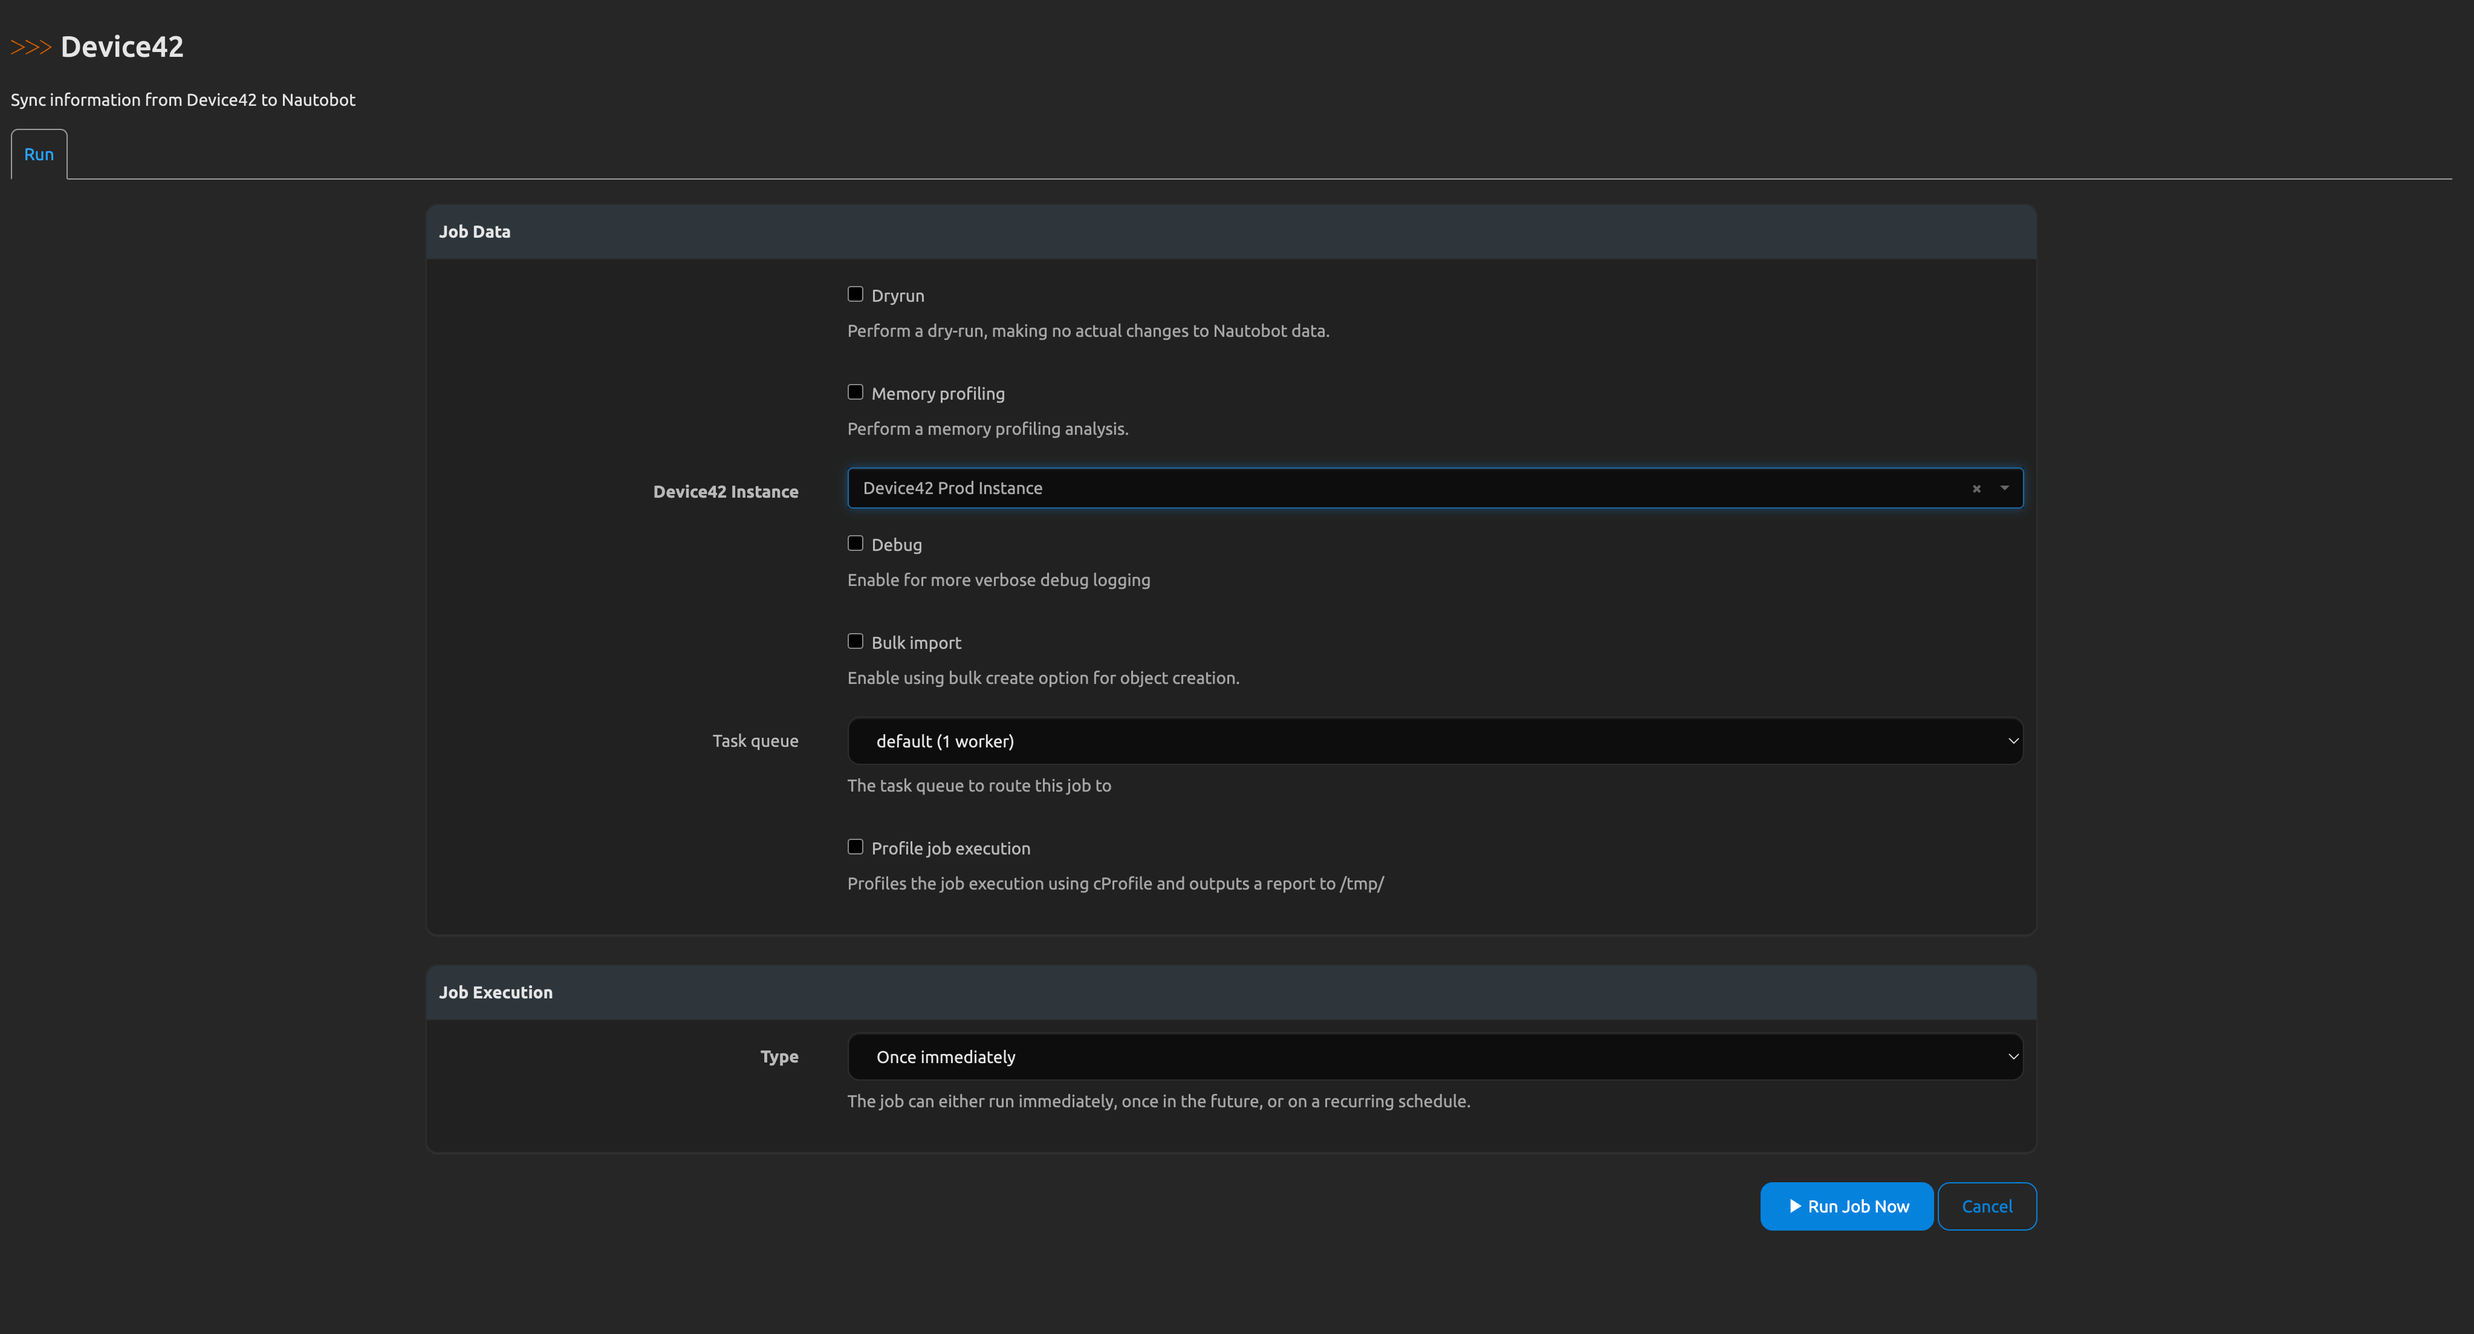
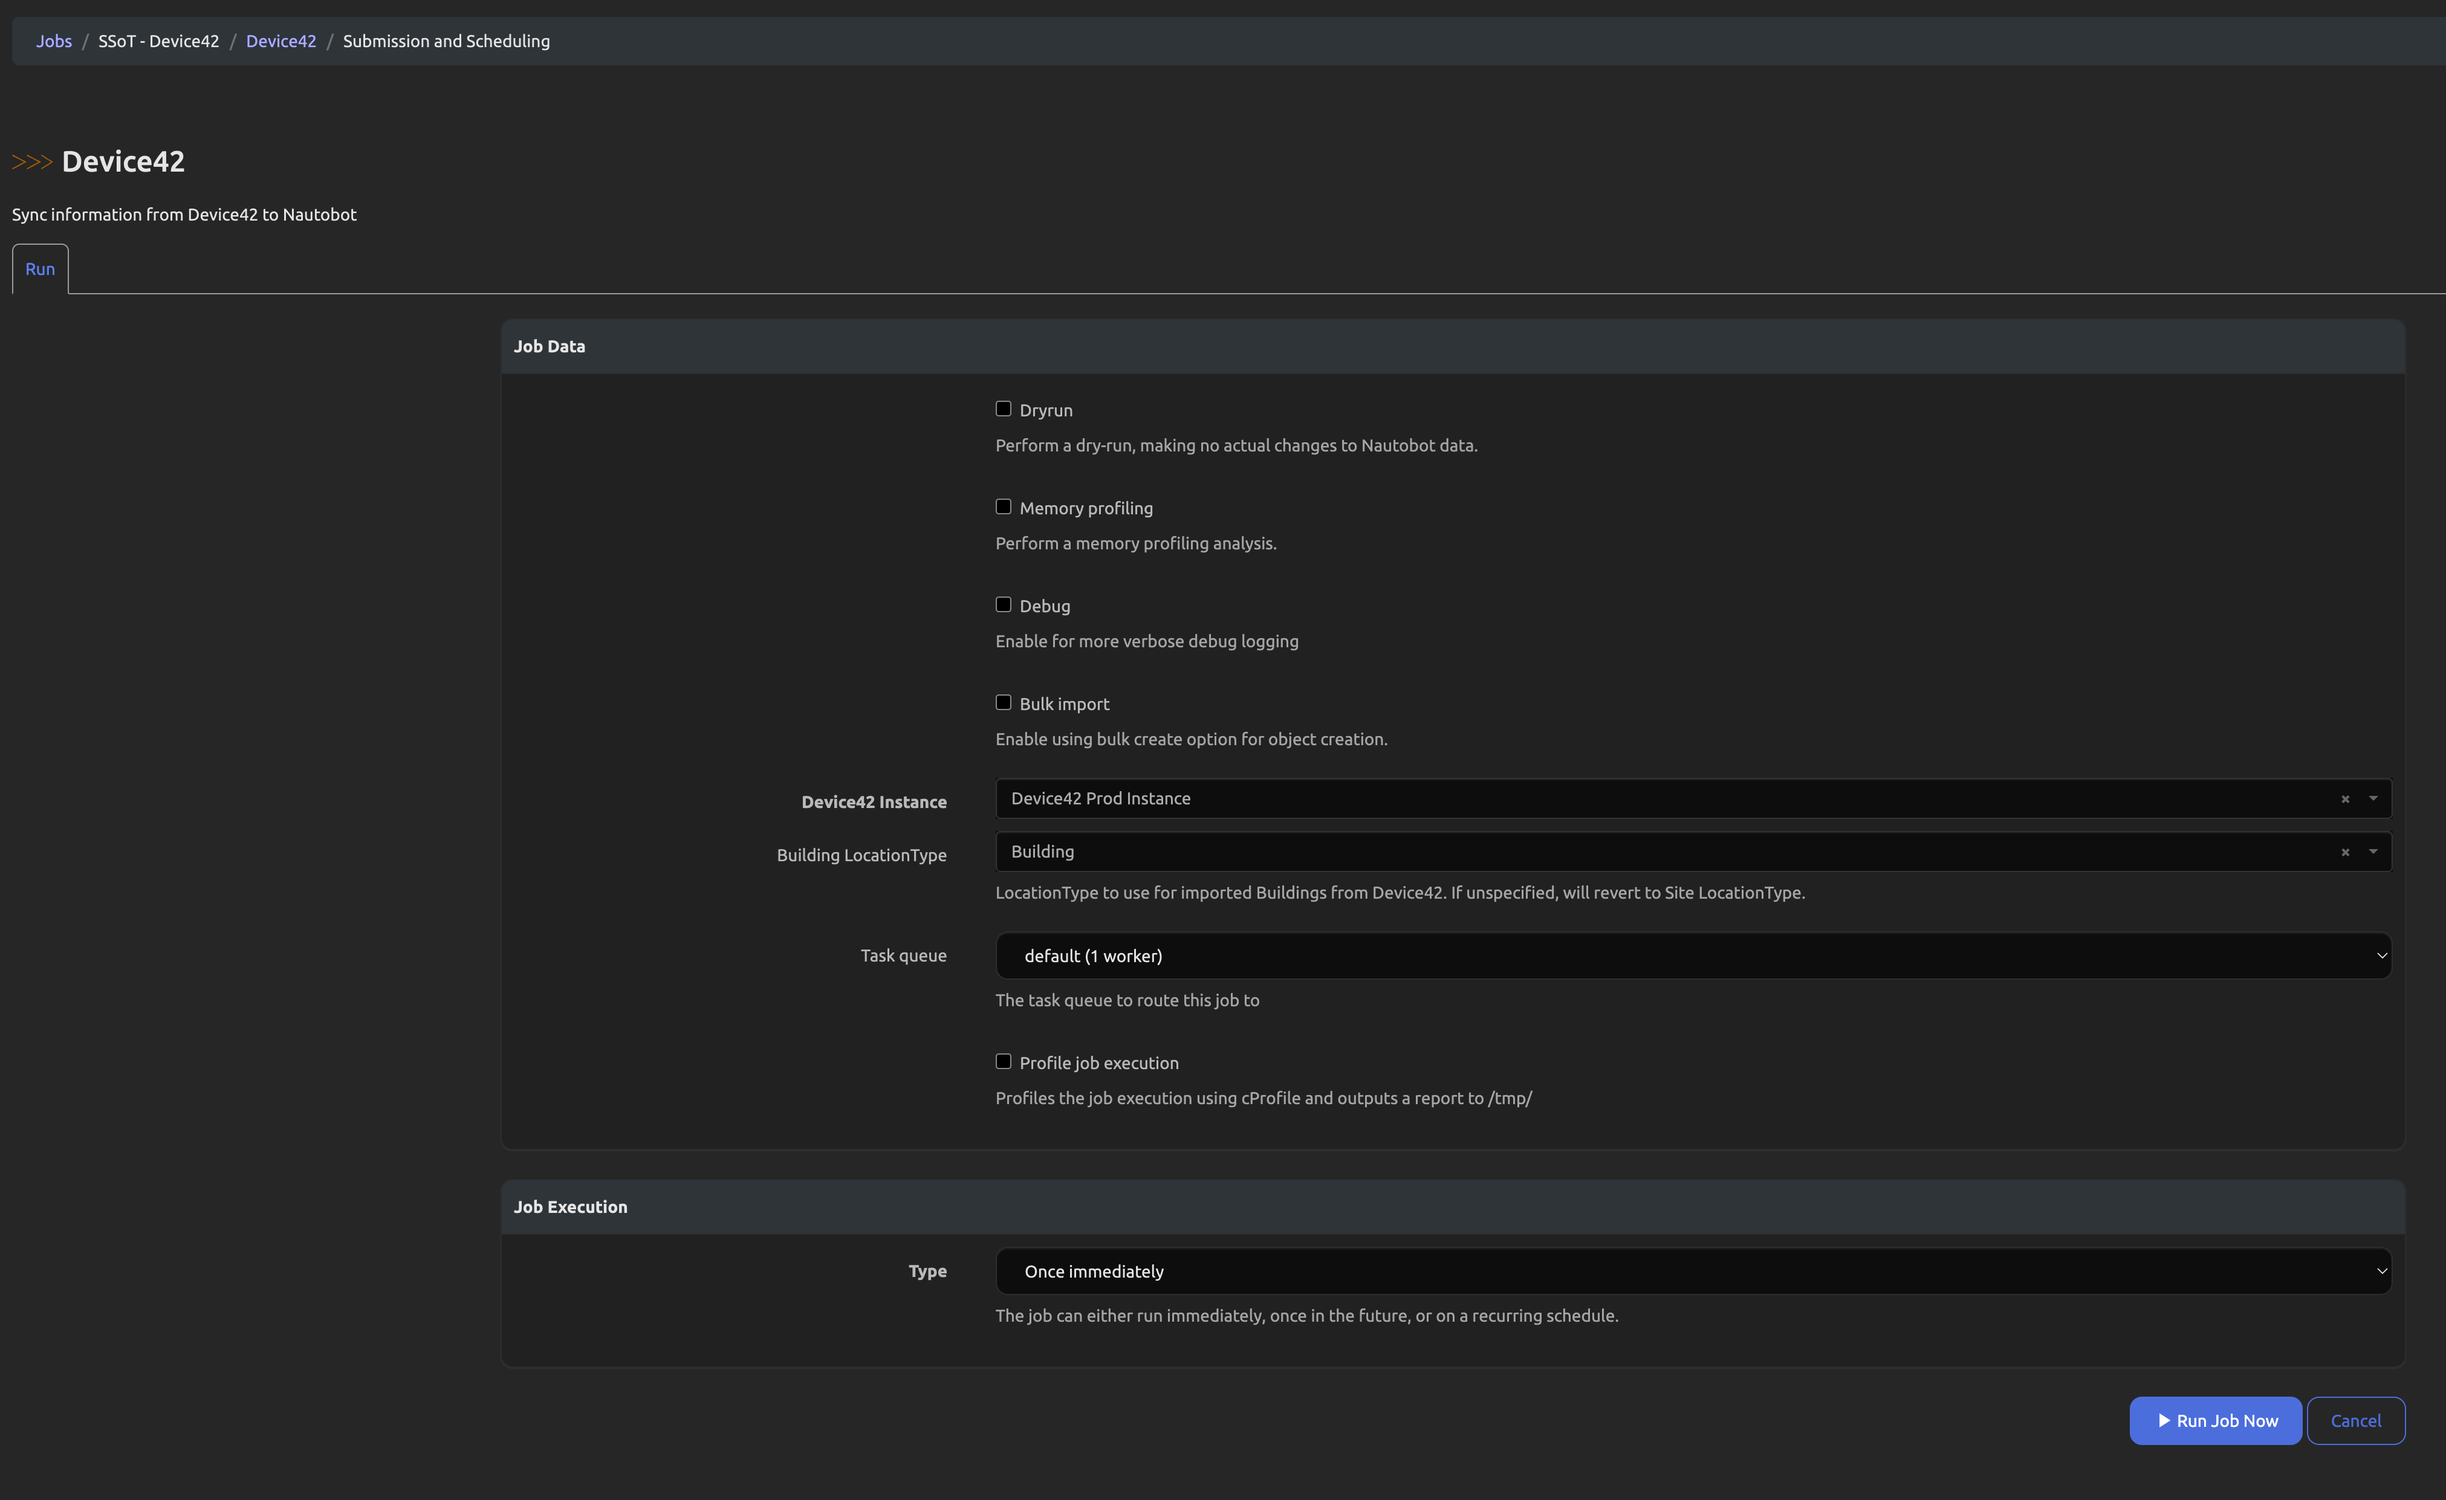
docs: 📝 Update documentation for Device42 integration to address Job form update.

diff --git a/docs/user/integrations/device42.md b/docs/user/integrations/device42.md
@@ -6,7 +6,7 @@ From Device42 into Nautobot, it synchronizes the following objects:
 
 | Device42                | Nautobot                     |
 | ----------------------- | ---------------------------- |
-| Buildings               | Sites                        |
+| Buildings               | Locations                    |
 | Rooms                   | RackGroups                   |
 | Racks                   | Racks                        |
 | Vendors                 | Manufacturers                |
@@ -36,7 +36,9 @@ To start the synchronization, simply select the ExternalIntegration that corresp
 
 ![Job Form](../../images/device42_job-form.png)
 
-If you wish to just test the synchronization but not have any data created in Nautobot you'll want to select the `Dry run` toggle. Clicking the `Debug` toggle will enable more verbose logging to inform you of what is occuring behind the scenes. Finally, the `Bulk import` option will enable bulk create and update operations to be used when the synchronization is complete. This can improve performance times for the App by forsaking validation of the imported data. Be aware that this could potentially cause bad data to be pushed into Nautobot.
+> As of SSoT 3.2.0 you now have the option to define the LocationType to use for imported Buildings. If unspecifed in the Job form it will resort to using the Site LocationType as it did previously.
+
+If you wish to just test the synchronization but not have any data created in Nautobot you'll want to select the `Dryrun` toggle. Clicking the `Debug` toggle will enable more verbose logging to inform you of what is occuring behind the scenes. Finally, the `Bulk import` option will enable bulk create and update operations to be used when the synchronization is complete. This can improve performance times for the App by forsaking validation of the imported data. Be aware that this could potentially cause bad data to be pushed into Nautobot.
 
 Running this Job will redirect you to a `Nautobot Job Result` view.
 
